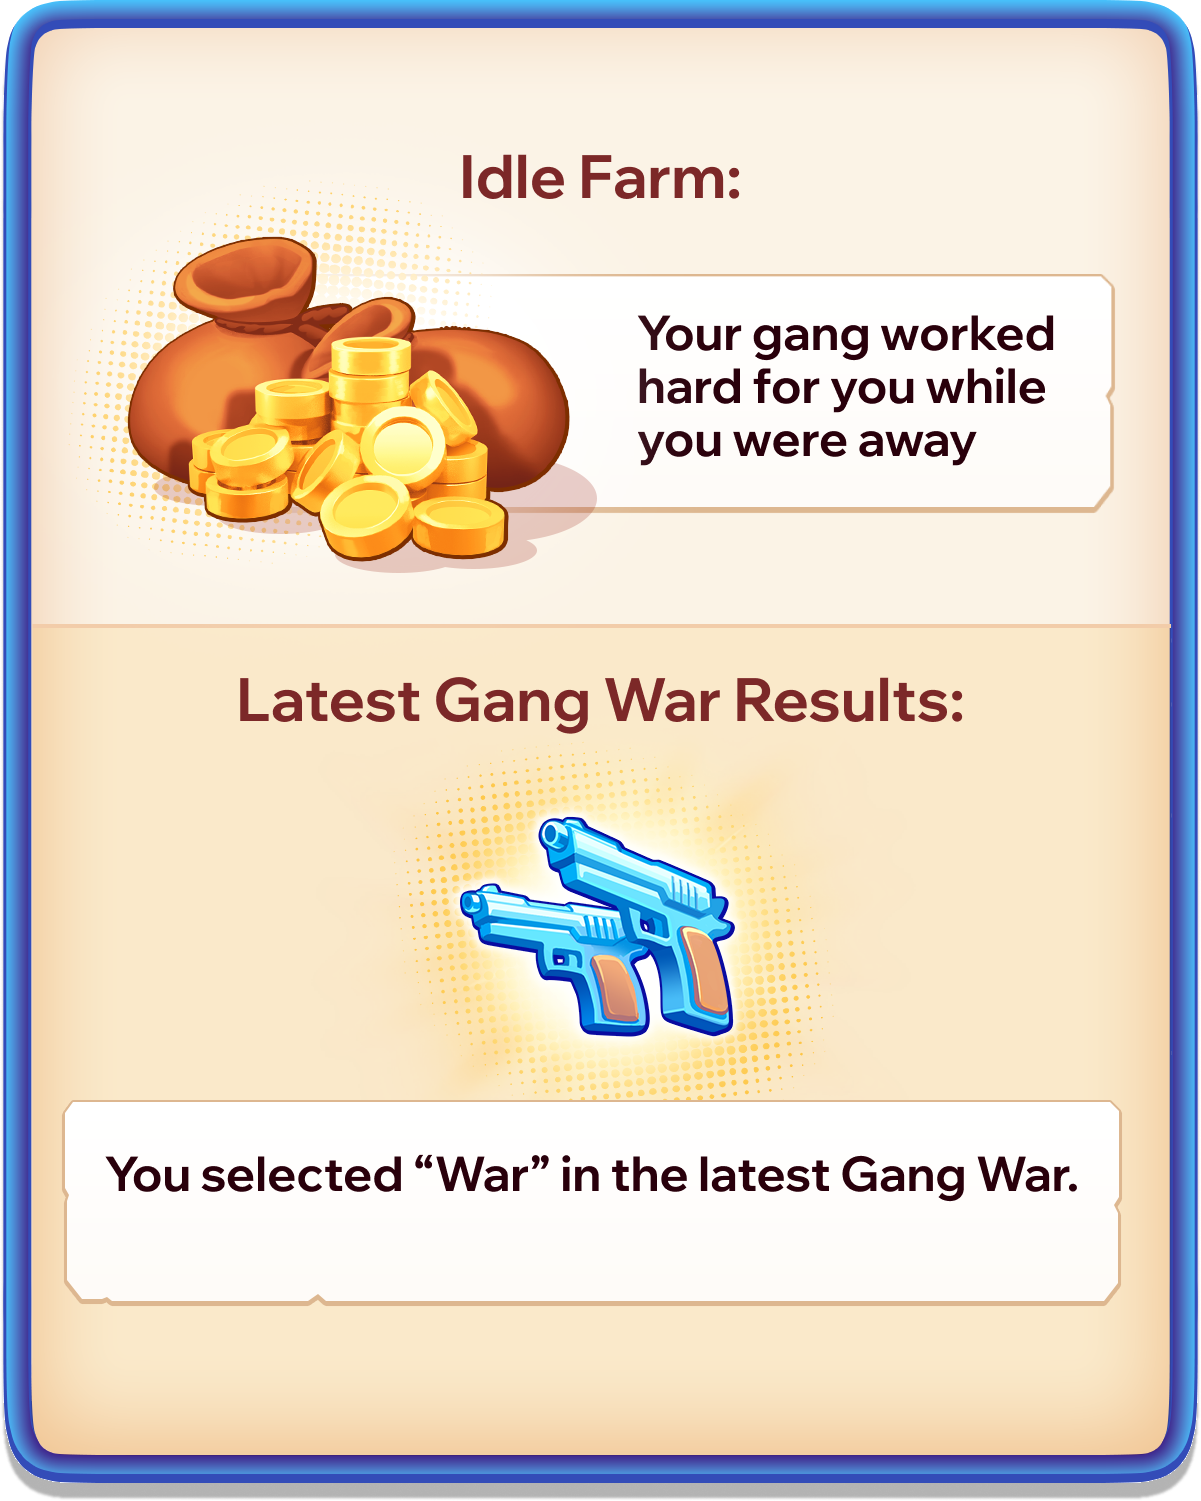
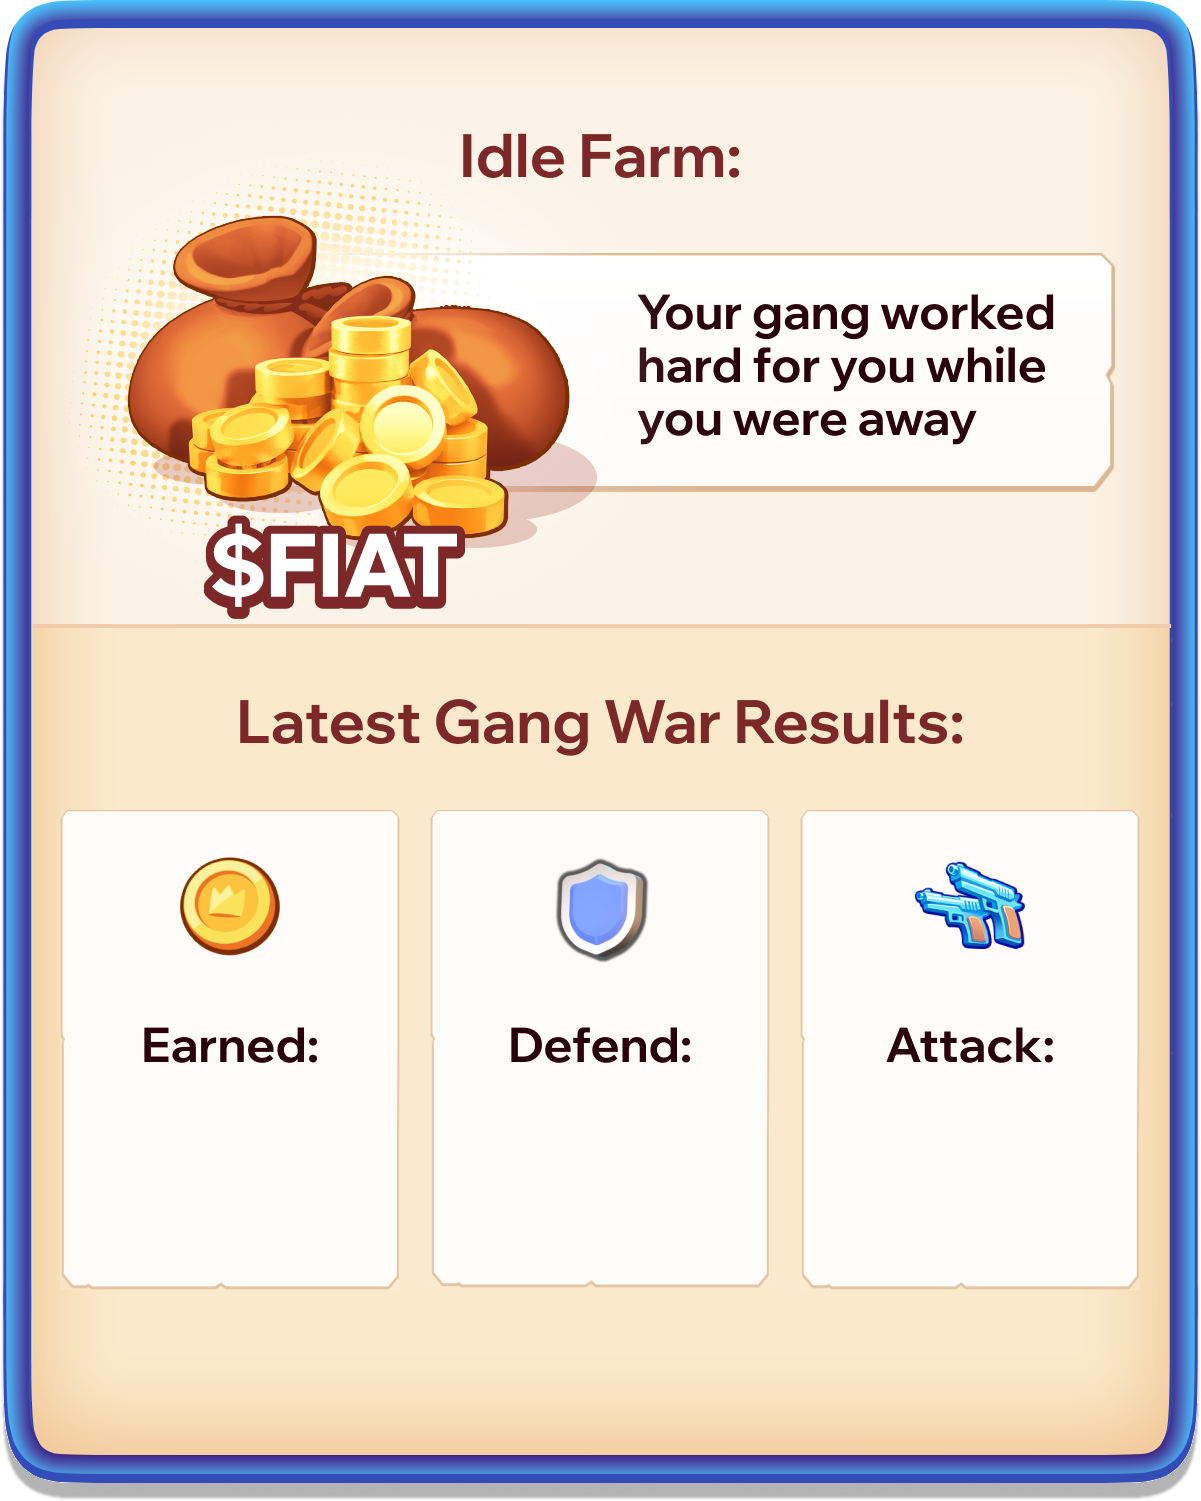
feat: new UI && logic for welcome popup

Changed region(s): [[0.0308, 0.429, 0.955, 0.8887], [0.0616, 0.0919, 0.9242, 0.429], [0.0308, 0.7968, 0.0616, 0.8581]]

diff --git a/app/src/pages/Game/components/popup/PopupWelcomeWar.js b/app/src/pages/Game/components/popup/PopupWelcomeWar.js
@@ -20,12 +20,15 @@ class PopupWelcomeWar extends Popup {
       onClose: () => scene.game.events.emit('update-last-time-seen-war-result'),
     });
 
+    this.line1Y = height / 2 + this.popup.height / 2 - 385;
+    this.line2Y = this.line1Y + 80;
+    this.numberGap = 370;
+
     const leftMargin = this.popup.x - this.popup.width / 2;
     const topMargin = this.popup.y - this.popup.height / 2;
-    const outcomeTextY = topMargin + this.popup.height - 280;
 
     this.valueText = scene.add
-      .text(leftMargin + this.popup.width * 0.25, topMargin + this.popup.height * 0.3, `+${formatter.format(value)}`, {
+      .text(leftMargin + this.popup.width * 0.28, topMargin + this.popup.height * 0.27, `+${formatter.format(value)}`, {
         fontSize: '88px',
         color: '#fff',
         fontFamily: fontFamilies.extraBold,
@@ -34,67 +37,138 @@ class PopupWelcomeWar extends Popup {
     this.valueText.setStroke(colors.brown, 20);
     this.add(this.valueText);
 
-    this.outcomeText = scene.add
-      .text(width / 2, outcomeTextY, ``, {
-        fontSize: fontSizes.medium,
+    this.earnValueText = scene.add
+      .text(width / 2 - this.numberGap, this.line1Y, '0', {
+        fontSize: '56px',
         color: colors.black,
         fontFamily: fontFamilies.bold,
       })
-      .setOrigin(0.5, 0);
-    this.add(this.outcomeText);
-
-    this.outcomeBonusAmount = scene.add
-      .text(width / 2, outcomeTextY, '+0', {
-        fontSize: fontSizes.medium,
+      .setOrigin(0.5, 0.5)
+      .setVisible(false);
+    this.add(this.earnValueText);
+    this.earnTokenText = scene.add
+      .text(width / 2 - this.numberGap, this.line2Y, '$FIAT', {
+        fontSize: '56px',
         color: colors.black,
         fontFamily: fontFamilies.bold,
       })
-      .setOrigin(0.5, 0)
+      .setOrigin(0.5, 0.5)
       .setVisible(false);
-    this.outcomeIconCoin = scene.add
-      .image(width / 2, outcomeTextY, 'icon-coin-mini')
-      .setOrigin(0.5, 0.2)
+    this.add(this.earnTokenText);
+
+    this.defendValueText = scene.add
+      .text(width / 2, this.line1Y, '0', {
+        fontSize: '56px',
+        color: colors.black,
+        fontFamily: fontFamilies.bold,
+      })
+      .setOrigin(0.5, 0.5)
       .setVisible(false);
-    this.add(this.outcomeBonusAmount);
-    this.add(this.outcomeIconCoin);
-
-    const iconGangsterX = width / 2 + 40;
-    this.outcomeIconGangster = scene.add
-      .image(iconGangsterX, outcomeTextY, 'icon-gangster-mini')
-      .setOrigin(0.5, 0.2)
+    this.add(this.defendValueText);
+    this.defendTokenText = scene.add
+      .text(width / 2, this.line2Y, '$FIAT', {
+        fontSize: '56px',
+        color: colors.black,
+        fontFamily: fontFamilies.bold,
+      })
+      .setOrigin(0.5, 0.5)
       .setVisible(false);
-    this.outcomeIconGoon = this.scene.add
-      .image(iconGangsterX + 150, outcomeTextY, 'icon-goon-mini')
-      .setOrigin(0.5, 0.2)
+    this.add(this.defendTokenText);
+    this.defendNoLossText = scene.add
+      .text(width / 2, (this.line1Y + this.line2Y) / 2, 'No Loss', {
+        fontSize: '56px',
+        color: colors.black,
+        fontFamily: fontFamilies.bold,
+      })
+      .setOrigin(0.5, 0.5)
       .setVisible(false);
-    this.add(this.outcomeIconGangster);
-    this.add(this.outcomeIconGoon);
+    this.add(this.defendNoLossText);
 
-    scene.game.events.on('update-war-history', (data = []) => {
-      if (!data.length) return;
+    this.attackValueText = scene.add
+      .text(width / 2 + this.numberGap, this.line1Y, '0', {
+        fontSize: '56px',
+        color: colors.black,
+        fontFamily: fontFamilies.bold,
+      })
+      .setOrigin(0.5, 0.5)
+      .setVisible(false);
+    this.add(this.attackValueText);
+    this.attackTokenText = scene.add
+      .text(width / 2 + this.numberGap, this.line2Y, '$FIAT', {
+        fontSize: '56px',
+        color: colors.black,
+        fontFamily: fontFamilies.bold,
+      })
+      .setOrigin(0.5, 0.5)
+      .setVisible(false);
+    this.add(this.attackTokenText);
+    this.attackNoAttackText = scene.add
+      .text(width / 2 + this.numberGap, (this.line1Y + this.line2Y) / 2, 'No Attack', {
+        fontSize: '56px',
+        color: colors.black,
+        fontFamily: fontFamilies.bold,
+      })
+      .setOrigin(0.5, 0.5)
+      .setVisible(false);
+    this.add(this.attackNoAttackText);
+    this.attackLostText = scene.add
+      .text(width / 2 + this.numberGap, this.line1Y, 'Lost', {
+        fontSize: '56px',
+        color: colors.black,
+        fontFamily: fontFamilies.bold,
+      })
+      .setOrigin(0.5, 0.5)
+      .setVisible(false);
+    this.add(this.attackLostText);
+    this.attackLostValueText = scene.add
+      .text(width / 2 + this.numberGap - 35, this.line2Y, '1000', {
+        fontSize: '56px',
+        color: colors.black,
+        fontFamily: fontFamilies.bold,
+      })
+      .setOrigin(0.5, 0.5)
+      .setVisible(false);
+    this.add(this.attackLostValueText);
+    this.attackLostIcon = scene.add
+      .image(width / 2 + this.numberGap + this.attackLostValueText.width / 2 + 20, this.line2Y, 'icon-gangster-mini')
+      .setOrigin(0.5, 0.5)
+      .setVisible(false);
+    this.add(this.attackLostIcon);
 
-      this.latestWar = data[0];
-      console.log('this.latestWar', this.latestWar);
-      const { bonus, penalty } = this.latestWar;
-      const hasNoPenalties = Number(penalty?.gangster) + Number(penalty?.goon) === 0;
+    scene.game.events.on('update-war-history-latest', (data) => {
+      if (!data) return;
 
-      if (bonus) {
-        this.outcomeText.text = `You gained +${formatter.format(bonus)}            Bonus.`;
-        this.outcomeBonusAmount.text = `+${formatter.format(bonus)}`;
-        this.outcomeIconCoin.setX(width / 2 + this.outcomeBonusAmount.width / 2 + 50);
+      this.reset();
+      const { tokenEarnFromEarning, tokenEarnFromAttacking, machinesLost, tokenStolen, attackUserId } = data;
+
+      // earn
+      this.earnValueText.text = `+${formatter.format(tokenEarnFromEarning || 0)}`;
+      this.earnValueText.setVisible(true);
+      this.earnTokenText.setVisible(true);
+
+      // defend
+      if (!tokenStolen) {
+        this.defendNoLossText.setVisible(true);
       } else {
-        if (hasNoPenalties) this.outcomeText.text = `Your gang escaped. Nothing was lost.`;
-        else {
-          this.outcomeText.text = `You lost -${Number(penalty?.gangster)}            -${Number(
-            penalty?.goon
-          )}            `;
-        }
+        this.defendTokenText.setVisible(true);
+        this.defendValueText.text = `-${formatter.format(tokenStolen)}`;
+        this.defendValueText.setVisible(true);
       }
 
-      this.outcomeBonusAmount.setVisible(bonus);
-      this.outcomeIconCoin.setVisible(bonus);
-      this.outcomeIconGangster.setVisible(!bonus && !hasNoPenalties);
-      this.outcomeIconGoon.setVisible(!bonus && !hasNoPenalties);
+      // attack
+      if (!attackUserId) {
+        this.attackNoAttackText.setVisible(true);
+      } else if (!!machinesLost) {
+        this.attackLostText.setVisible(true);
+        this.attackLostValueText.text = `-${formatter.format(machinesLost)}`;
+        this.attackLostValueText.setVisible(true);
+        this.attackLostIcon.x = width / 2 + this.numberGap + this.attackLostValueText.width / 2 + 20;
+        this.attackLostIcon.setVisible(true);
+      } else {
+        this.attackTokenText.setVisible(true);
+        this.attackValueText.text = `+${formatter.format(tokenEarnFromAttacking)}`;
+        this.attackValueText.setVisible(true);
+      }
     });
 
     scene.game.events.on('update-claimable-status', ({ claimable, active }) => {
@@ -132,8 +206,22 @@ class PopupWelcomeWar extends Popup {
       }
     });
 
-    scene.game.events.emit('request-war-history');
+    scene.game.events.emit('request-war-history-latest');
     scene.game.events.emit('request-claimable-status');
+  }
+
+  reset() {
+    this.earnValueText.setVisible(false);
+    this.earnTokenText.setVisible(false);
+    this.defendValueText.setVisible(false);
+    this.defendTokenText.setVisible(false);
+    this.defendNoLossText.setVisible(false);
+    this.attackValueText.setVisible(false);
+    this.attackTokenText.setVisible(false);
+    this.attackNoAttackText.setVisible(false);
+    this.attackLostValueText.setVisible(false);
+    this.attackLostText.setVisible(false);
+    this.attackLostIcon.setVisible(false);
   }
 }
 

diff --git a/app/src/pages/Game/index.js b/app/src/pages/Game/index.js
@@ -26,7 +26,12 @@ import {
   updateUserWarAttack,
   updateUserWarMachines,
 } from '../../services/gamePlay.service';
-import { getLatestWar, getUserListToAttack, getUserDetailToAttack } from '../../services/war.service';
+import {
+  getLatestWar,
+  getUserListToAttack,
+  getUserDetailToAttack,
+  getLatestWarResult,
+} from '../../services/war.service';
 import { getRankingRewards } from '../../services/season.service';
 import QueryKeys from '../../utils/queryKeys';
 import { calculateHouseLevel } from '../../utils/formulas';
@@ -408,10 +413,10 @@ const Game = () => {
             ? gamePlay?.lastTimeSeenWarResult.toDate().getTime()
             : 0;
           const {
-            data: { latestWar, war },
+            data: { latestWar },
           } = await getLatestWar();
           const latestWarUnixTime = latestWar.createdAt;
-          const showWarPopup = war && lastUnixTimeSeenWarResult < latestWarUnixTime;
+          const showWarPopup = lastUnixTimeSeenWarResult < latestWarUnixTime;
 
           let startTime = gamePlay.startRewardCountingTime.toDate().getTime();
           if (profile.lastOnlineTime) {
@@ -927,6 +932,17 @@ const Game = () => {
         getWarHistoryDetail({ warSnapshotId, warResultId })
           .then((res) => {
             gameRef.current?.events.emit('update-war-history-detail', res.data);
+          })
+          .catch((err) => {
+            console.error(err);
+            Sentry.captureException(err);
+          });
+      });
+
+      gameRef.current?.events.on('request-war-history-latest', () => {
+        getLatestWarResult()
+          .then((res) => {
+            gameRef.current?.events.emit('update-war-history-latest', res.data);
           })
           .catch((err) => {
             console.error(err);

diff --git a/backend/services/warSnapshot.service.js b/backend/services/warSnapshot.service.js
@@ -24,18 +24,6 @@ export const getLatestWar = async (userId) => {
 
   const result = { latestWar };
 
-  const warResultSnapshot = await firestore
-    .collection('warSnapshot')
-    .doc(latestWar.id)
-    .collection('warResult')
-    .where('userId', '==', userId)
-    .limit(1)
-    .get();
-  if (!warResultSnapshot.empty) {
-    const { isWarEnabled } = warResultSnapshot.docs[0].data();
-    result.war = isWarEnabled;
-  }
-
   return result;
 };
 
@@ -269,6 +257,27 @@ export const getWarHistoryDetail = async ({ userId, warSnapshotId, warResultId }
       ...item,
       userUsername: usernames[item.userId],
     })),
+  };
+};
+
+export const getWarHistoryLatest = async ({ userId }) => {
+  const seasonId = await getActiveSeasonId();
+
+  const warHistorySnapshot = await firestore
+    .collectionGroup('warResult')
+    .where('seasonId', '==', seasonId)
+    .where('userId', '==', userId)
+    .orderBy('createdAt', 'desc')
+    .limit(1)
+    .get();
+
+  if (warHistorySnapshot.empty) return null;
+
+  const snapshot = warHistorySnapshot.docs[0];
+
+  return {
+    id: snapshot.id,
+    ...snapshot.data(),
   };
 };
 

diff --git a/backend/controllers/war.controller.js b/backend/controllers/war.controller.js
@@ -1,4 +1,9 @@
-import { getLatestWar, getUsersToAttack, getUserToAttackDetail } from '../services/warSnapshot.service.js';
+import {
+  getLatestWar,
+  getUsersToAttack,
+  getUserToAttackDetail,
+  getWarHistoryLatest,
+} from '../services/warSnapshot.service.js';
 import logger from '../utils/logger.js';
 
 export const getLastestWarSnapshot = async (req, res) => {
@@ -28,6 +33,17 @@ export const getUserAttackDetail = async (req, res) => {
   try {
     const { id } = req.params;
     const result = await getUserToAttackDetail(id);
+    return res.status(200).send(result);
+  } catch (err) {
+    console.error(err);
+    logger.error(err.message);
+    return res.status(400).send(err.message);
+  }
+};
+
+export const getUserWarHistoryLatest = async (req, res) => {
+  try {
+    const result = await getWarHistoryLatest({ userId: req.userId });
     return res.status(200).send(result);
   } catch (err) {
     console.error(err);

diff --git a/backend/routes/war.route.js b/backend/routes/war.route.js
@@ -1,6 +1,11 @@
 import { Router } from 'express';
 
-import { getLastestWarSnapshot, getUserListToAttack, getUserAttackDetail } from '../controllers/war.controller.js';
+import {
+  getLastestWarSnapshot,
+  getUserListToAttack,
+  getUserAttackDetail,
+  getUserWarHistoryLatest,
+} from '../controllers/war.controller.js';
 import auth from '../middlewares/auth.middleware.js';
 
 const router = Router();
@@ -10,5 +15,7 @@ router.get('/latest', auth, getLastestWarSnapshot);
 router.get('/users-to-attack', auth, getUserListToAttack);
 
 router.get('/users-to-attack/:id', getUserAttackDetail);
+
+router.get('/result/latest', auth, getUserWarHistoryLatest);
 
 export default router;

diff --git a/app/src/pages/Game/scenes/LoadingScene.js b/app/src/pages/Game/scenes/LoadingScene.js
@@ -297,7 +297,7 @@ class LoadingScene extends Phaser.Scene {
     this.load.image('icon-goon-mini', '/images/icons/goon-mini.png');
     this.load.image('icon-goon-buy-done', '/images/icons/goon-buy-done.png');
     this.load.image('icon-goon-buy-fail', '/images/icons/goon-buy-fail.png');
-    this.load.image('icon-gangster-mini', '/images/icon-gangster.png');
+    // this.load.image('icon-gangster-mini', '/images/icon-gangster.png');
 
     this.load.image('icon-info', '/images/icons/info.png');
     this.load.image('icon-info-blue', '/images/icon-info.png');

diff --git a/app/src/services/war.service.js b/app/src/services/war.service.js
@@ -2,6 +2,8 @@ import api from './api';
 
 export const getLatestWar = () => api.get('/api/v1/wars/latest');
 
+export const getLatestWarResult = () => api.get('/api/v1/wars/result/latest');
+
 export const getUserListToAttack = (params) => api.get('/api/v1/wars/users-to-attack', { params });
 
 export const getUserDetailToAttack = (id) => api.get(`/api/v1/wars/users-to-attack/${id}`);
